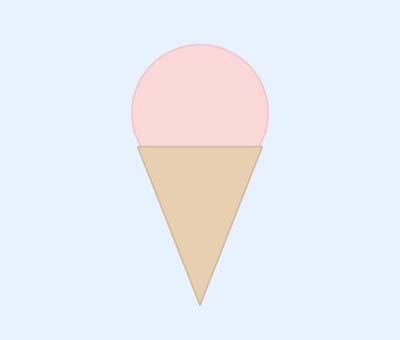
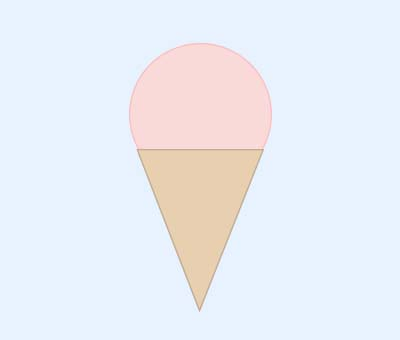
Updated image, refined input

diff --git a/css/style.css b/css/style.css
@@ -100,7 +100,7 @@ nav a:hover{
 }
 
 #group-number {
-    padding: 5px 10px;
+    padding: 10px 10px;
     border: none;
     outline-color: #ffffff;
     padding-left: 10px;
@@ -108,6 +108,7 @@ nav a:hover{
 
 #group-number::placeholder {
     color: rgb(116, 119, 119);
+    font-size: 15px;
 }
 
 #group-number:focus {
@@ -127,7 +128,7 @@ nav a:hover{
 
 .join-group {
     color: #7DA3C5;
-    font-size: 20px;
+    font-size: 25px;
     padding-right: 10px;
 }
 
@@ -283,10 +284,8 @@ nav a:hover{
 }
 
 #chat-input:focus {
-    background-color: rgba(229, 140, 112);
     border: none;
     color: white;
-    /* box-sizing: border-box; */
     border: 3px solid #ccc;
     -webkit-transition: 0.5s;
     transition: 0.4s;
@@ -295,4 +294,18 @@ nav a:hover{
 
 #chat-input:focus::placeholder {
     color: white;
+}
+
+.users {
+    background-color: #4D5462;
+    width: max-content;
+    border-radius: 100%;
+    border: 2px solid #E58C70;
+    padding: 10px;
+    
+}
+
+.user1{
+    padding: 10px;
+    
 }

diff --git a/topics.html b/topics.html
@@ -71,7 +71,7 @@
         </div>
         <div class="grid-item topics">
             <p class="topic-title">Colour</p>
-            <img class="topic-img" src="images/ice cream 2.jpg" alt="Coloured ice cream">
+            <img class="topic-img" src="images/ice cream.jpg" alt="Coloured ice cream">
             <div class="select-button">
                 <p class="level">Level:</p>
                 <p class="level" style="font-weight: bold;">Beginner</p>

diff --git a/active.html b/active.html
@@ -38,6 +38,17 @@
     <div class="chat">
         
         <p class="div-title">Chat</p>
+
+        <div class="users">
+            M
+        </div>
+        
+        <div class="users">
+                M
+        </div>
+        <div class="users">
+                M
+        </div>
         <form class="chat">
             <input type="text" class="type" id="chat-input" placeholder="Chat">
           </form>
